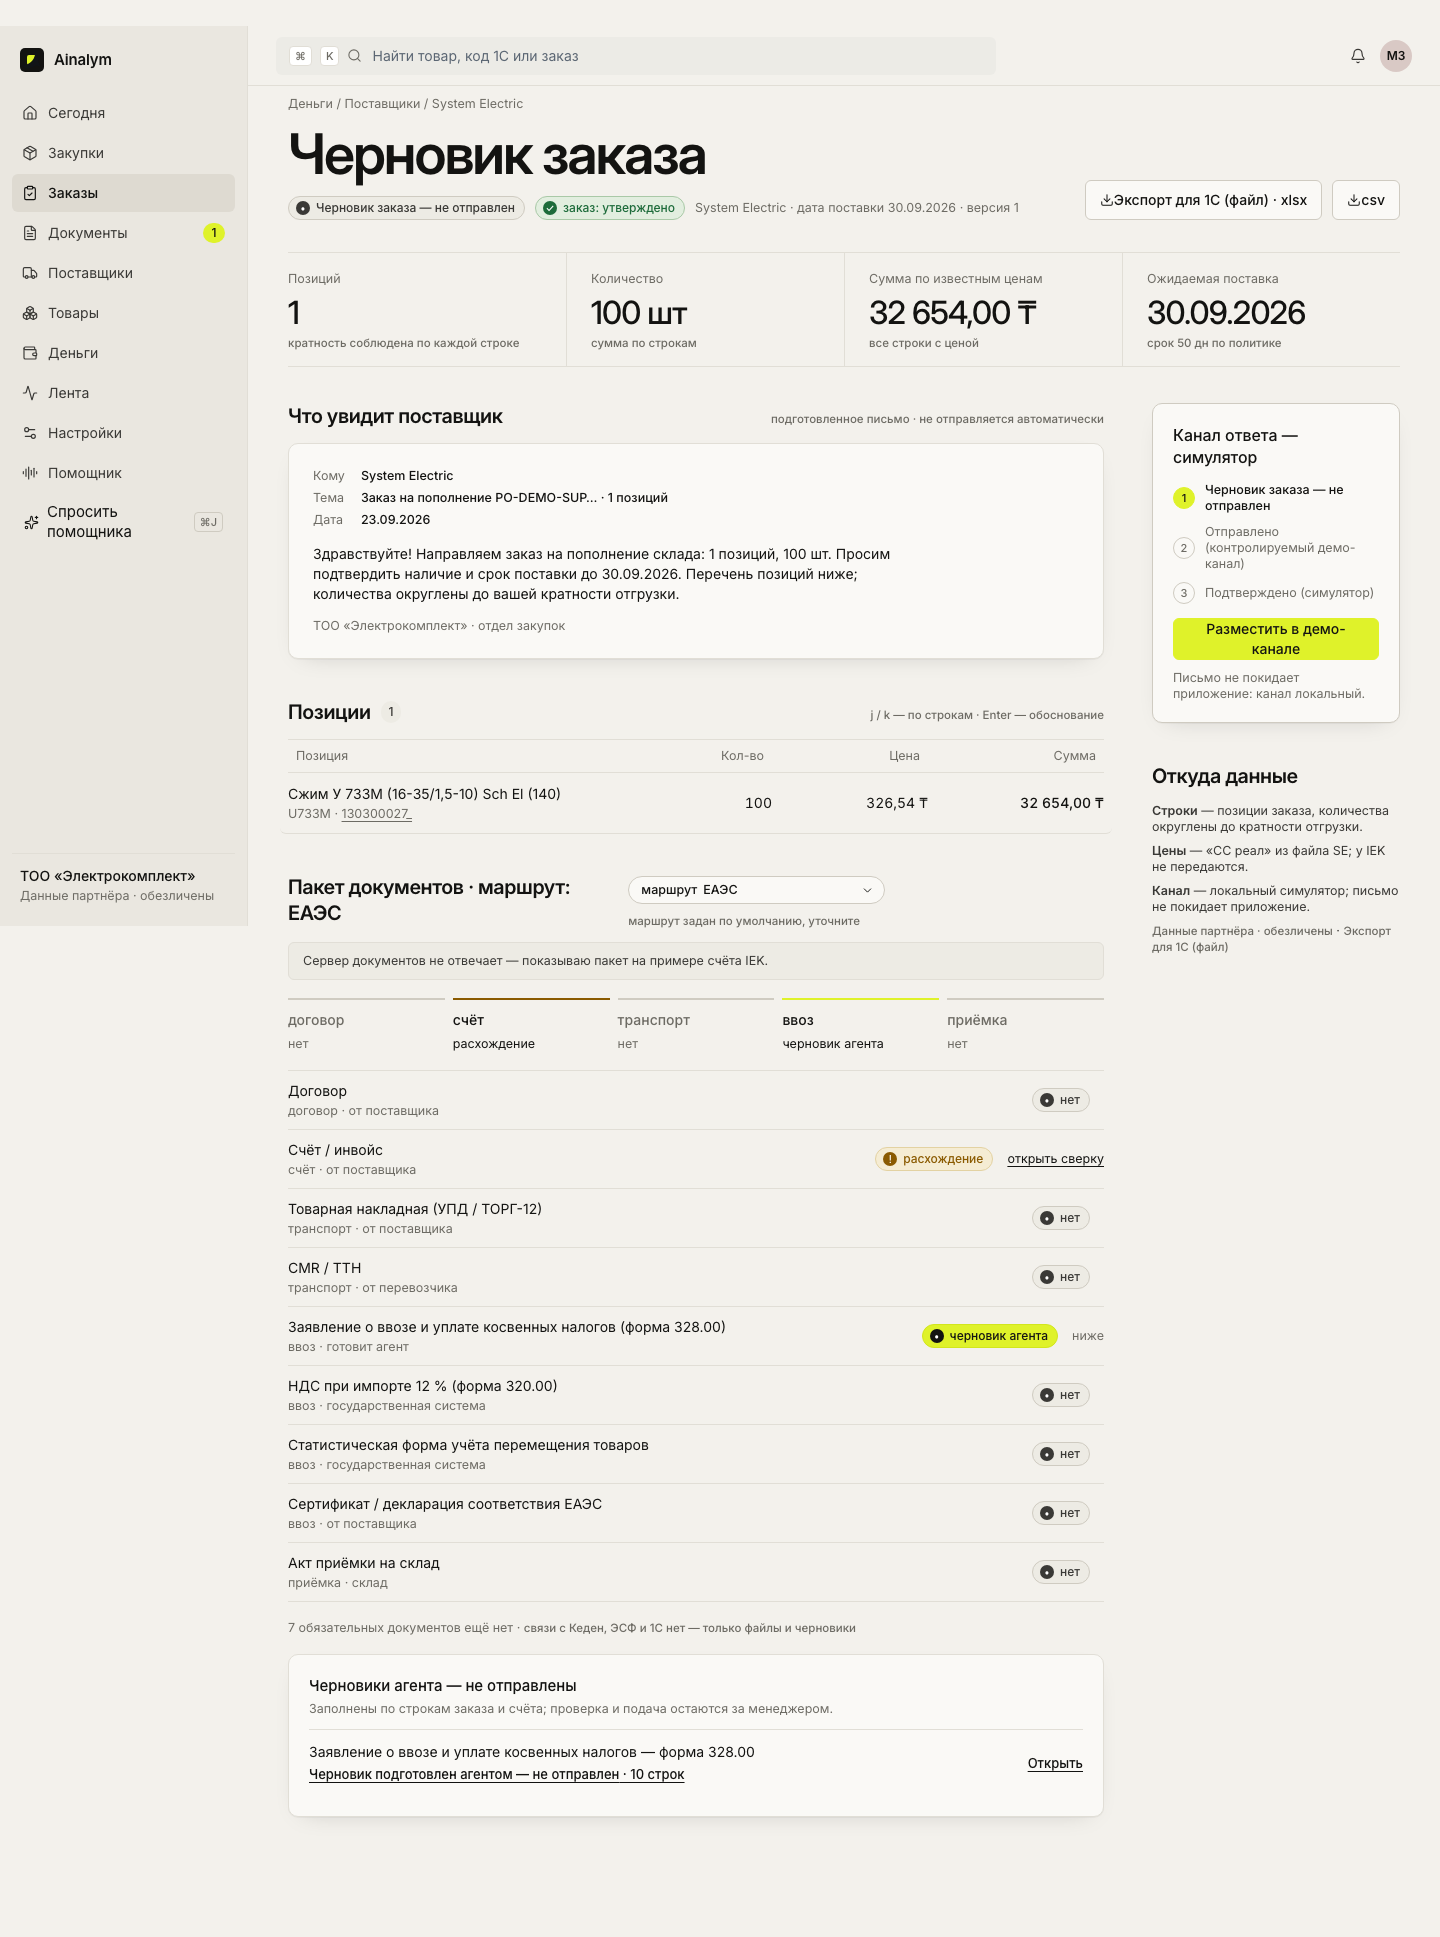
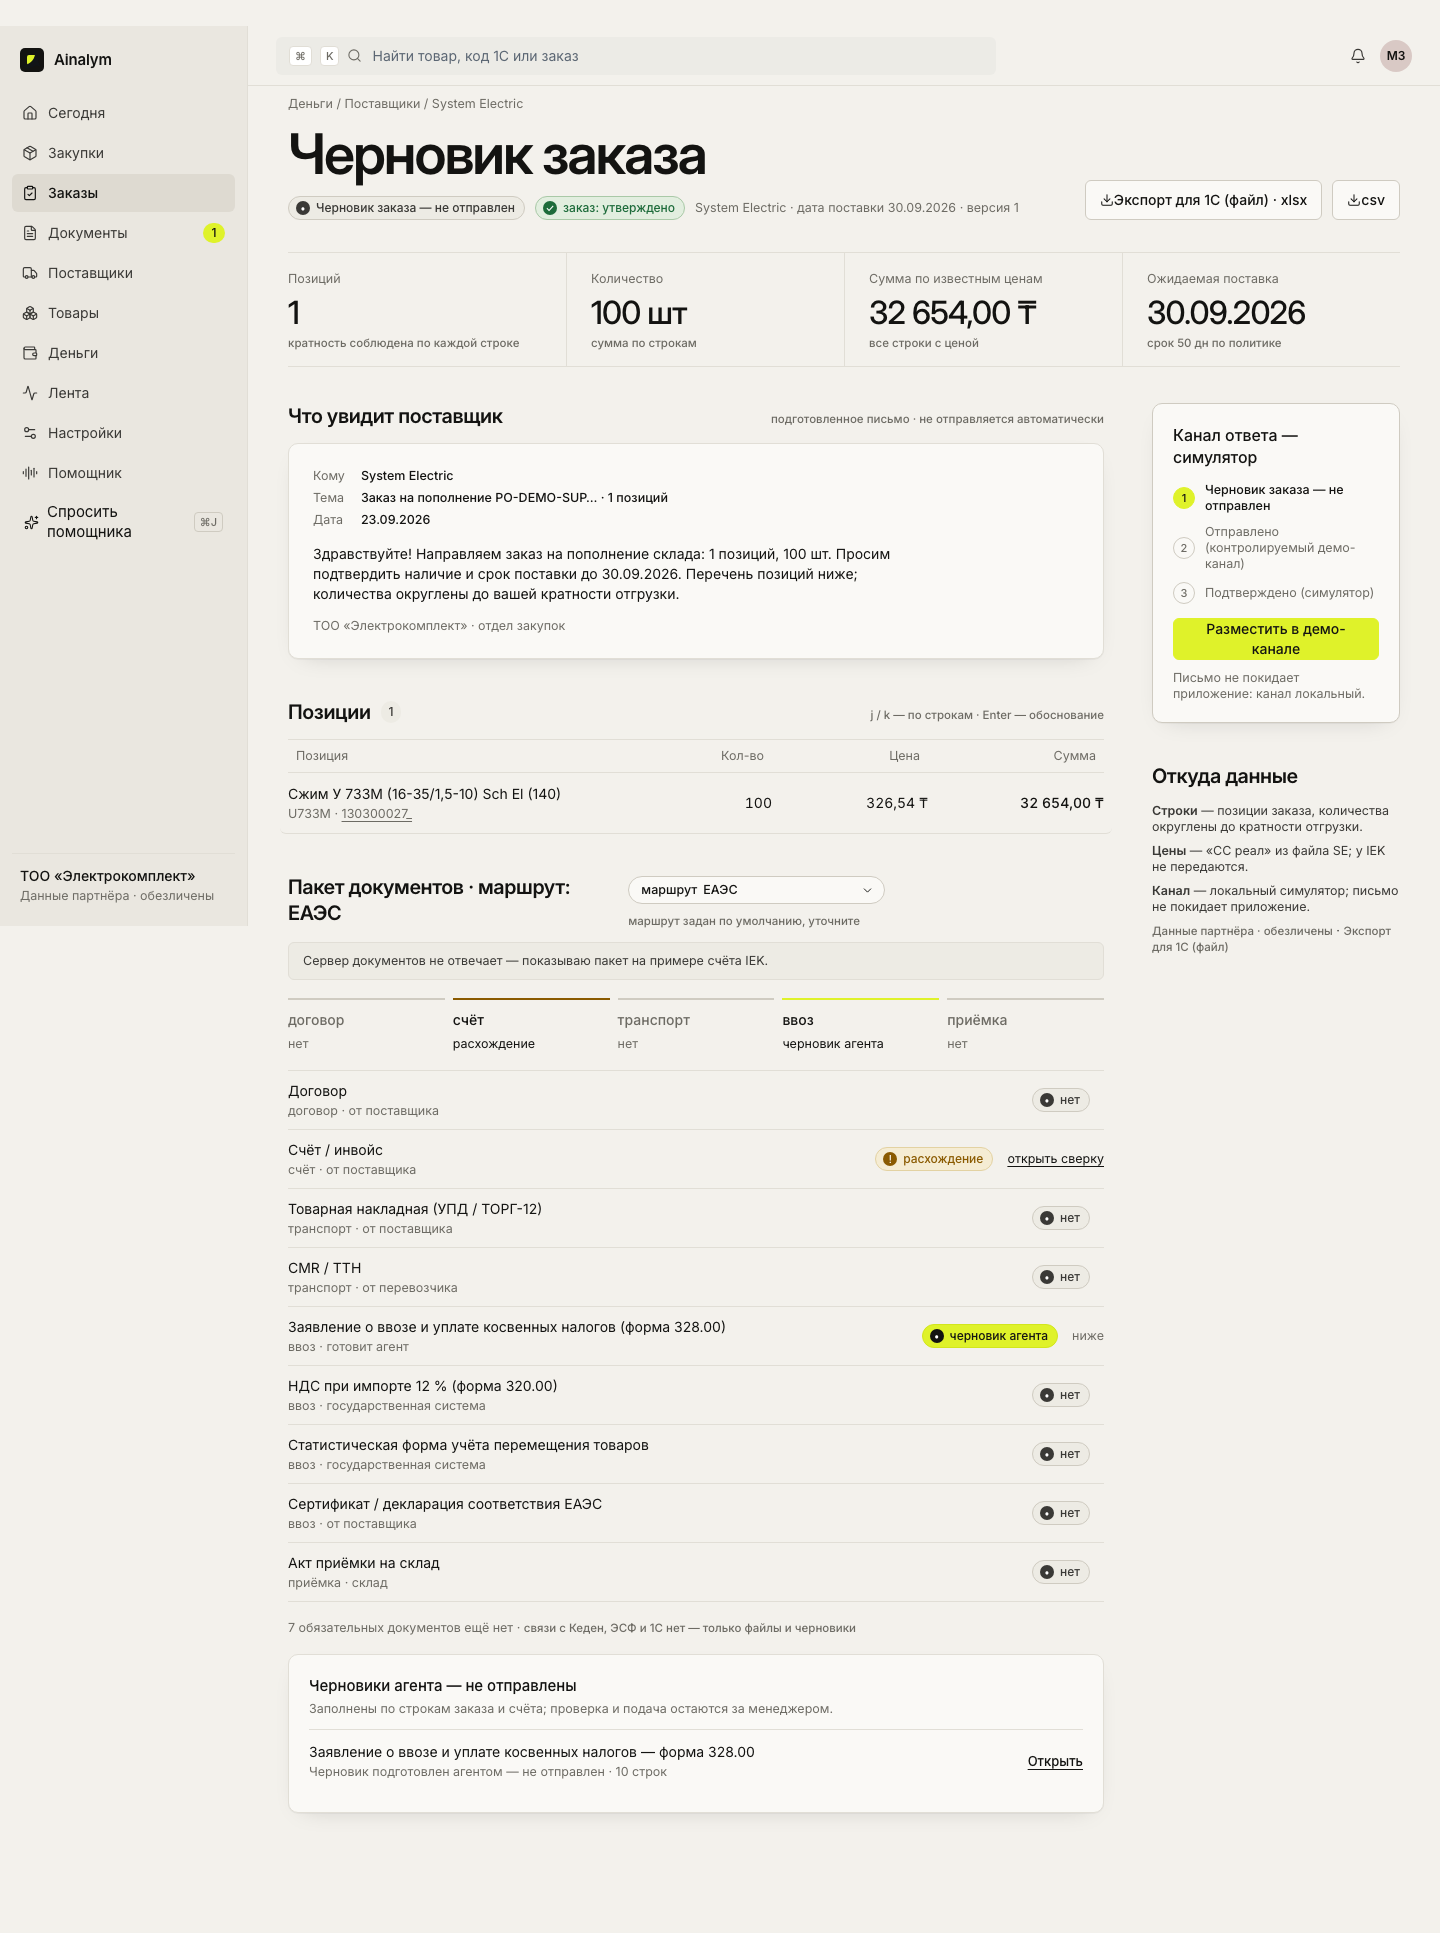
DOCS-UI: draft disclosure — underline only the «Открыть» affordance, not the meta line; evidence retaken

diff --git a/src/components/documents/documents.module.css b/src/components/documents/documents.module.css
@@ -82,7 +82,7 @@
 .draft { border-top: 1px solid var(--v2-line); }
 .draft summary { display: flex; justify-content: space-between; gap: 12px; align-items: center; padding: 12px 0; cursor: pointer; list-style: none; font: var(--v2-body); }
 .draft summary::-webkit-details-marker { display: none; }
-.draft summary span:last-child { font: 500 13px/20px var(--v2-font); color: var(--v2-ink); text-decoration: underline; text-underline-offset: 3px; white-space: nowrap; }
+.draft summary > span:last-child { font: 500 13px/20px var(--v2-font); color: var(--v2-ink); text-decoration: underline; text-underline-offset: 3px; white-space: nowrap; }
 .fields { display: grid; grid-template-columns: auto minmax(0, 1fr); gap: 6px 16px; margin: 4px 0 12px; font: var(--v2-meta); }
 .fields dt { color: var(--v2-muted); } .fields dd { margin: 0; color: var(--v2-ink); overflow-wrap: anywhere; }
 .draft .sheetWrap { max-height: 320px; border: 1px solid var(--v2-line); border-radius: var(--v2-radius-sm); margin-bottom: 12px; }
